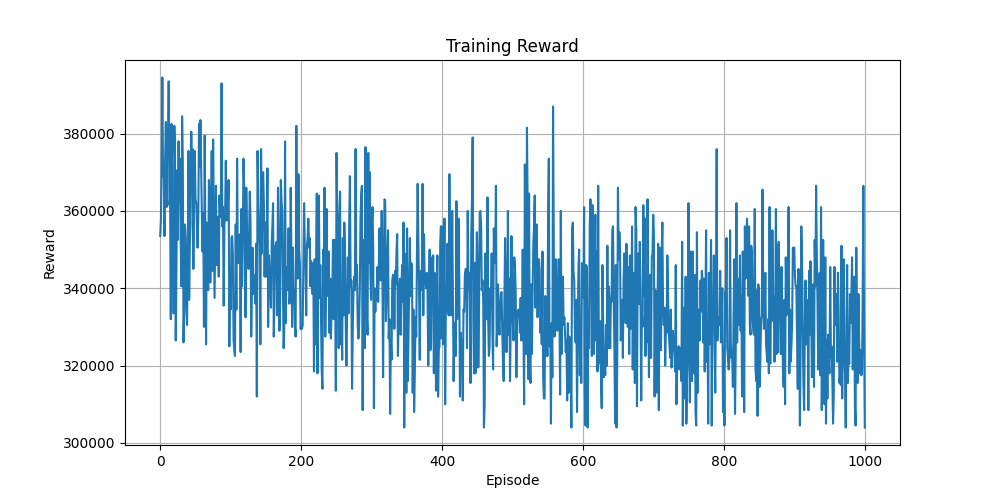
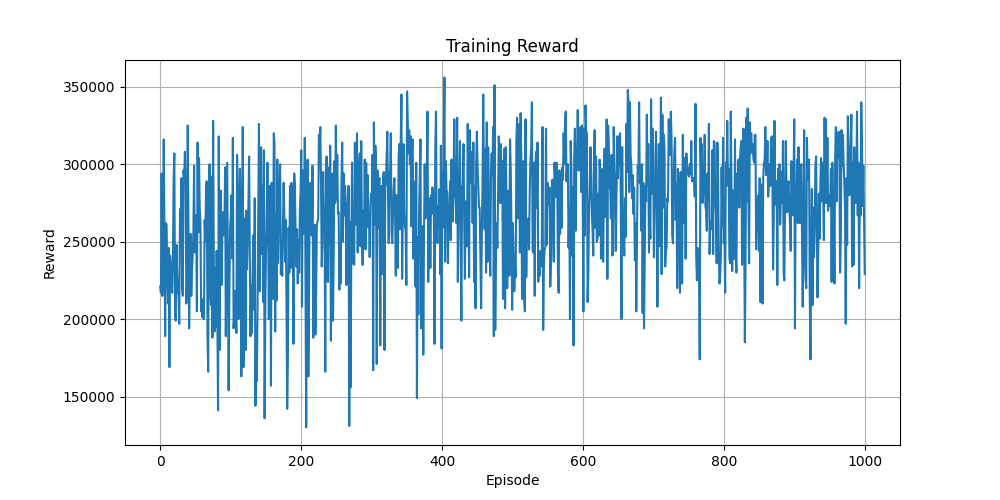
Complete Day 8

diff --git a/env/pricing_env.py b/env/pricing_env.py
@@ -49,29 +49,50 @@ class PricingEnvironment(gym.Env):
 
     def step(self, action):
 
-        price = PRICE_MAP[action]
+     price = PRICE_MAP[action]
 
-        sold_rooms = customer_demand(action, self.days_left)
+     # Customer Demand
+     sold_rooms = customer_demand(action, self.days_left)
+     sold_rooms = min(sold_rooms, self.inventory)
 
-        sold_rooms = min(sold_rooms, self.inventory)
+     # Update Inventory
+     self.inventory -= sold_rooms
 
-        self.inventory -= sold_rooms
+     # Revenue
+     revenue = sold_rooms * price
 
-        reward = sold_rooms * price
+     reward = revenue
 
-        self.days_left -= 1
+     # -----------------------------
+     # Reward Engineering
+     # -----------------------------
 
-        done = False
+     # Bonus if all inventory sold
+     if self.inventory == 0:
+        reward += 5000
 
-        if self.inventory == 0 or self.days_left == 0:
-         done = True
+     # Penalty if inventory remains at season end
+     if self.days_left == 1 and self.inventory > 0:
+        reward -= self.inventory * 500
 
-        state = np.array(
+     # Small penalty for keeping price too high
+     if action == 4 and sold_rooms <= 2:
+        reward -= 1000
+
+     # Move to next day
+     self.days_left -= 1
+
+     done = False
+
+     if self.inventory == 0 or self.days_left == 0:
+        done = True
+
+     state = np.array(
         [self.inventory, self.days_left],
         dtype=np.int32
-       )
+    )
 
-        return state, reward, done, False, {}
+     return state, reward, done, False, {}
 
     def render(self):
 

diff --git a/utils/demand.py b/utils/demand.py
@@ -1,34 +1,38 @@
 import random
 
+# Price Levels
 PRICE_MAP = {
-    0: 3000,
-    1: 3500,
-    2: 4000,
-    3: 4500,
+    0: 1000,
+    1: 2000,
+    2: 3000,
+    3: 4000,
     4: 5000
 }
 
+def customer_demand(price_level, days_left):
 
-def customer_demand(action, days_left):
-    """
-    Simulate customer demand based on price and remaining days.
-    """
+    # Base demand according to price
+    if price_level == 0:
+        demand = 15
+    elif price_level == 1:
+        demand = 12
+    elif price_level == 2:
+        demand = 10
+    elif price_level == 3:
+        demand = 7
+    else:
+        demand = 4
 
-    base_demand = {
-        0: 10,
-        1: 8,
-        2: 6,
-        3: 4,
-        4: 2
-    }
-
-    demand = base_demand[action]
-
-    # Last 5 days → demand increases
+    # Last-minute bookings
     if days_left <= 5:
-        demand += 2
+        demand += random.randint(3, 7)
 
-    # Random variation
-    demand += random.randint(-2, 2)
+    # Early booking period
+    elif days_left >= 20:
+        demand += random.randint(-2, 2)
+
+    # Normal booking period
+    else:
+        demand += random.randint(-1, 3)
 
     return max(0, demand)
